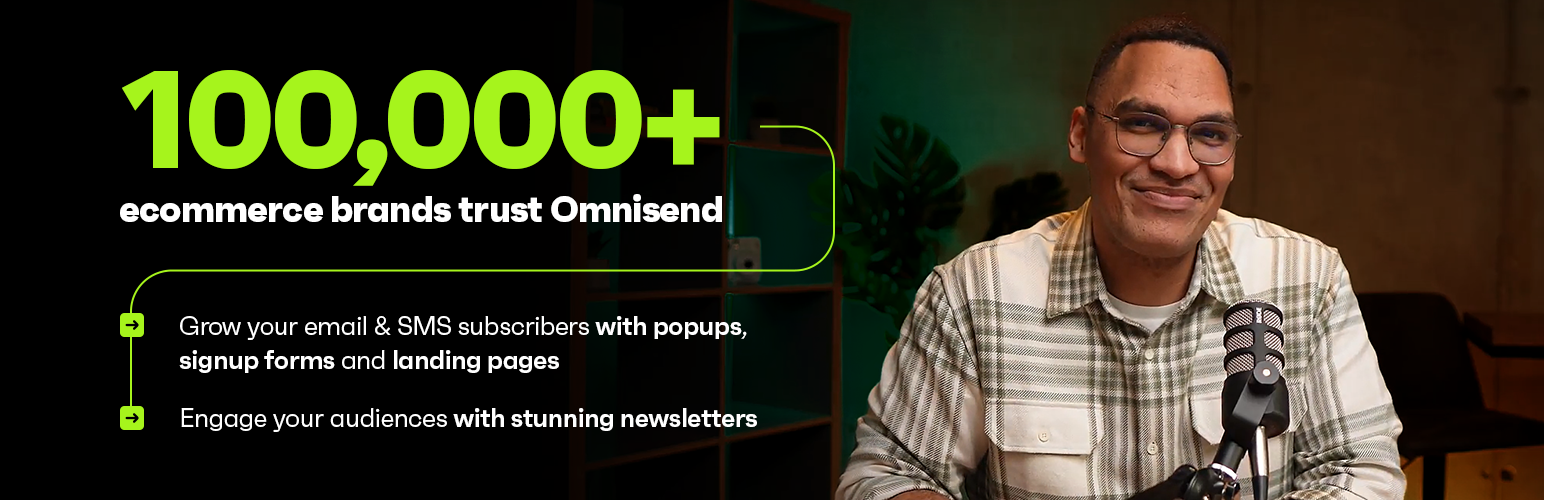
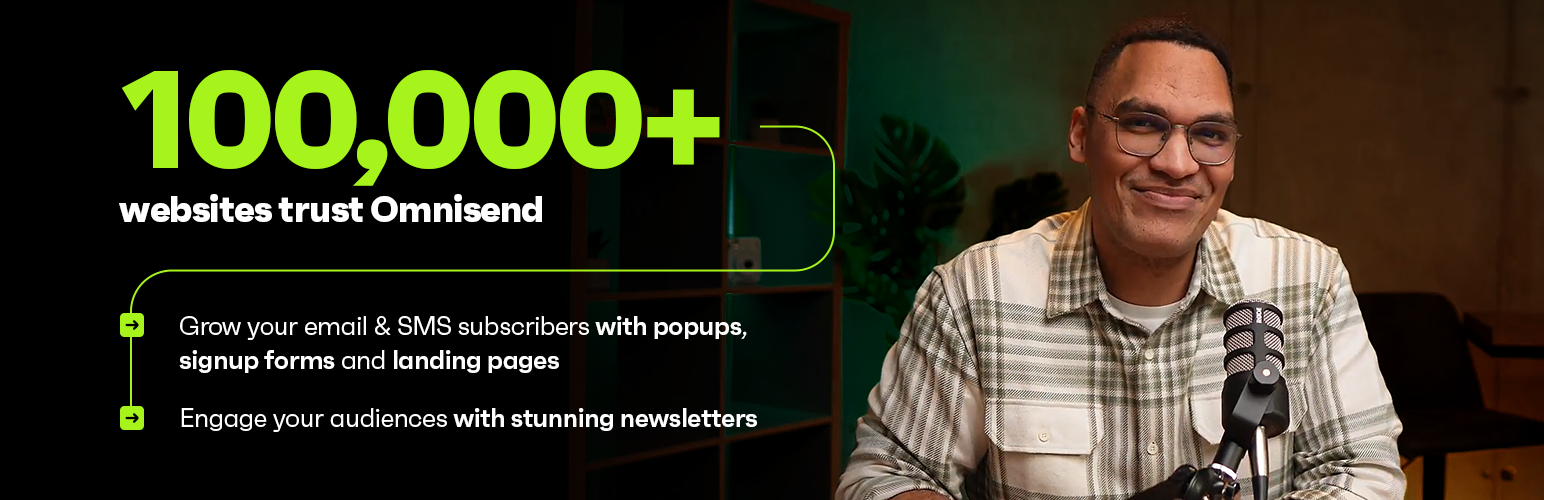
Update description (#50)
Update description and banners

Changed region(s): [[0.0622, 0.39, 0.4663, 0.45]]

diff --git a/omnisend/class-omnisend-core-bootstrap.php b/omnisend/class-omnisend-core-bootstrap.php
@@ -4,7 +4,7 @@
  *
  * Plugin Name: Omnisend
  * Description: Omnisend main plugin that enables integration with Omnisend.
- * Version: 1.3.4
+ * Version: 1.3.5
  * Author: Omnisend
  * Author URI: https://www.omnisend.com
  * Developer: Omnisend
@@ -22,7 +22,7 @@ use Omnisend\Internal\Options;
 
 defined( 'ABSPATH' ) || die( 'no direct access' );
 
-const OMNISEND_CORE_PLUGIN_VERSION = '1.3.4';
+const OMNISEND_CORE_PLUGIN_VERSION = '1.3.5';
 const OMNISEND_CORE_SETTINGS_PAGE  = 'omnisend';
 const OMNISEND_CORE_PLUGIN_NAME    = 'Email Marketing by Omnisend';
 
